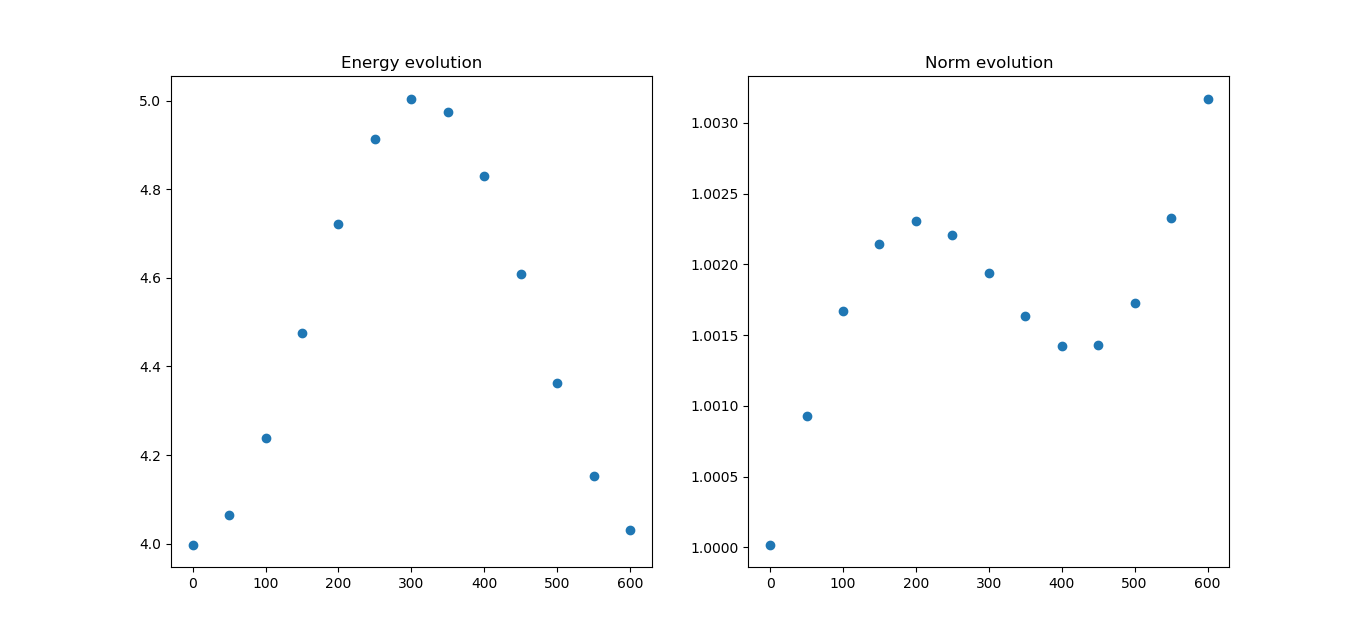
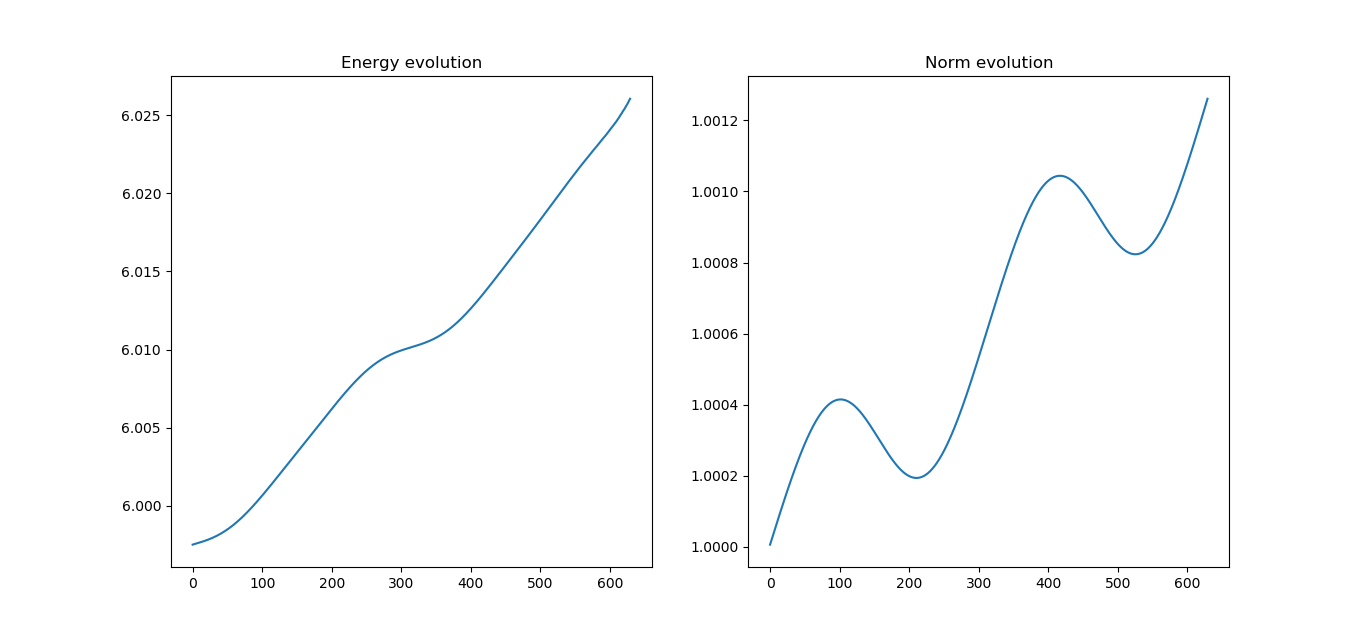
Add files via upload

diff --git a/Quant2D/Box.py b/Quant2D/Box.py
@@ -49,7 +49,7 @@ class main(BoxLayout):
         self.time = 0.
         self.T = 630
         self.dt = 0.0025
-        self.speed = 0.4
+        self.speed = 0.3
      #   self.change_speed()
         self.running = False
         
@@ -109,10 +109,12 @@ class main(BoxLayout):
         self.background()
         self.update_texture()
 
+        '''
         with self.statuslabel.canvas:
             Color(1,0,0)
             Rectangle(pos=self.statuslabel.pos,size=self.statuslabel.size)
-            
+        '''
+        
     def reset_pot_list(self):
         self.pot.clear()
         self.potentials = []
@@ -120,9 +122,11 @@ class main(BoxLayout):
         self.plotbox.canvas.clear()
         self.background()
         
+        '''
         with self.statuslabel.canvas:
             Color(1,0,0)
             Rectangle(pos=self.statuslabel.pos,size=self.statuslabel.size)
+        '''
     
     def background_main(self):
         self.im = np.zeros((self.n,self.n))
@@ -157,11 +161,11 @@ class main(BoxLayout):
         self.background_main()
         self.update_texture_main()
         
-        
+        '''
         with self.statuslabel.canvas:
             Color = (1,0,0)
             Rectangle(pos=self.statuslabel.pos,size=self.statuslabel.size)
-            
+        '''   
     def reset_wave_list(self):
         self.particlestrings = []
         self.particlesave = []
@@ -170,23 +174,28 @@ class main(BoxLayout):
         self.wavebox.canvas.clear()
         self.wav.clear()
       #  self.background()
-        
+        ''' 
         with self.statuslabel.canvas:
             Color(1,0,0)
             Rectangle(pos=self.statuslabel.pos,size=self.statuslabel.size)
-            
+        '''    
     
     def demo1(self):
         ' Demo1 = harm osci ground eigenstate not centered '
         self.demo = 1
+        self.demolabel = 'harmonic oscillatior ground eigenstate not centered'
+        self.T = 630
         
         x0 = -0.5
         y0 = 0.
         w = 4.
         
+        x0po = 0.
+        y0po = 0.
+        
         #Add potential
         
-        self.pot.add_function(potentials.osc,[0.,0.,w])
+        self.pot.add_function(potentials.osc,[x0po,y0po,w])
         
         self.background()
         self.update_texture()
@@ -200,7 +209,7 @@ class main(BoxLayout):
         
         #Update time evolution from file
         
-        file = open('Demo1.pkl','rb')
+        file = open('Demo1','rb')
         probevol = pkl.load(file)
 
         self.probability = probevol
@@ -209,6 +218,8 @@ class main(BoxLayout):
     def demo2(self):
         'Demo2 = harm osci ground estate pulsating'
         self.demo = 2
+        self.demolabel = 'harmonic oscillatior ground eigenstate with different frequency from the potential'
+        self.T = 840
         
         x0 = 0.
         y0 = 0.
@@ -231,30 +242,33 @@ class main(BoxLayout):
         
         #Update time evolution from file
         
-        file = open('Demo2.pkl','rb')
+        file = open('Demo2','rb')
         probevol = pkl.load(file)
 
         self.probability = probevol
         
     
     def demo3(self):
-        'Demo3 = barrier'
+        'Demo3 = box'
         self.demo = 3
+        self.demolabel = 'smaller box'
+        self.T = 630
         
         x0 = -0.75
         y0 = 0.
-        sigma = 0.5
+        sigma = 0.25
         px0 = 0.
         py0 = 0.
         
         V0pot = 2.
-        R = 0
+        R = 0.5
         a = 0.1
-        x0pot = 1.
+        x0pot = 0.
+        y0pot = 0.
         
         #Add potential
         
-        self.pot.add_function(potentials.barrier_x,[V0pot,R,a,x0pot])
+        self.pot.add_function(potentials.woods_box,[V0pot,R,a,x0pot,y0pot])
         
         self.background()
         self.update_texture()
@@ -267,8 +281,45 @@ class main(BoxLayout):
         self.update_texture_main()
         
         #Update time evolution from file
+    
+        file = open('Demo3','rb')
+        probevol = pkl.load(file)
+
+        self.probability = probevol
         
-        file = open('Demo3.pkl','rb')
+    
+    def demo4(self):
+        'Demo4 = double barrier / double well'
+        self.demo = 4
+        self.demolabel = 'double well in x'
+        self.T = 630
+        
+        x0 = 0.
+        y0 = 0.
+        sigma = 0.25
+        px0 = 0.
+        py0 = 0.
+        
+        V0pot = 10.
+        x0pot = 0.
+        
+        #Add potential
+        
+        self.pot.add_function(potentials.barrier_x,[V0pot,x0pot])
+        
+        self.background()
+        self.update_texture()
+        
+        #Add wave function
+        
+        self.wav.add_function(wavef.InitWavef.Gauss,[x0,y0,sigma,px0,py0])
+            
+        self.background_main()
+        self.update_texture_main()
+        
+        #Update time evolution from file
+    
+        file = open('Demo4','rb')
         probevol = pkl.load(file)
 
         self.probability = probevol
@@ -282,6 +333,9 @@ class main(BoxLayout):
                     size_hint=(None, None), size=(700, 1000))
         elif (self.demo == 3):
             pop = Popup(title='Energy', content=Image(source='Energy3.png'),
+                    size_hint=(None, None), size=(700, 1000))
+        elif (self.demo == 4):
+            pop = Popup(title='Energy', content=Image(source='Energy4.png'),
                     size_hint=(None, None), size=(700, 1000))
         
         pop.open()

diff --git a/Quant2D/potentials.py b/Quant2D/potentials.py
@@ -30,13 +30,30 @@ def gauss(r,param):
 
 #############################
     
-def barrier_x(r,param):
+def woods_box(r,param):
     V0 = param[0]
     R = param[1]
     a = param [2]
     x0 = param[3]
+    y0 = param[4]
         
     xx = r[0] - x0 #ROW
-    yy = r[1] #COLUMN
+    yy = r[1] - y0 #COLUMN
     
-    return (-1.*V0/(1.+np.exp((xx-R)/a))+V0/(1.+np.exp((xx-(R+4.*a)/a))))*yy/yy
+   # up = 0. #-1.*V0/(1.+np.exp((yy-R)/a))*xx/xx
+   # down = 0. #+1.*V0/(1.+np.exp((yy-R)/a))*xx/xx
+   # left = 0. #-1.*V0/(1.+np.exp((-1*xx-R)/a))
+    right = -1.*V0/(1.+np.exp((xx-R)/a))
+    
+    return right+(yy-yy)
+
+#############################
+    
+def barrier_x(r,param):
+    V0 = param[0]
+    x0 = param [1]
+        
+    xx = r[0] - x0 #ROW
+    yy = r[1]  #COLUMN
+    
+    return V0*xx**2*yy/yy
